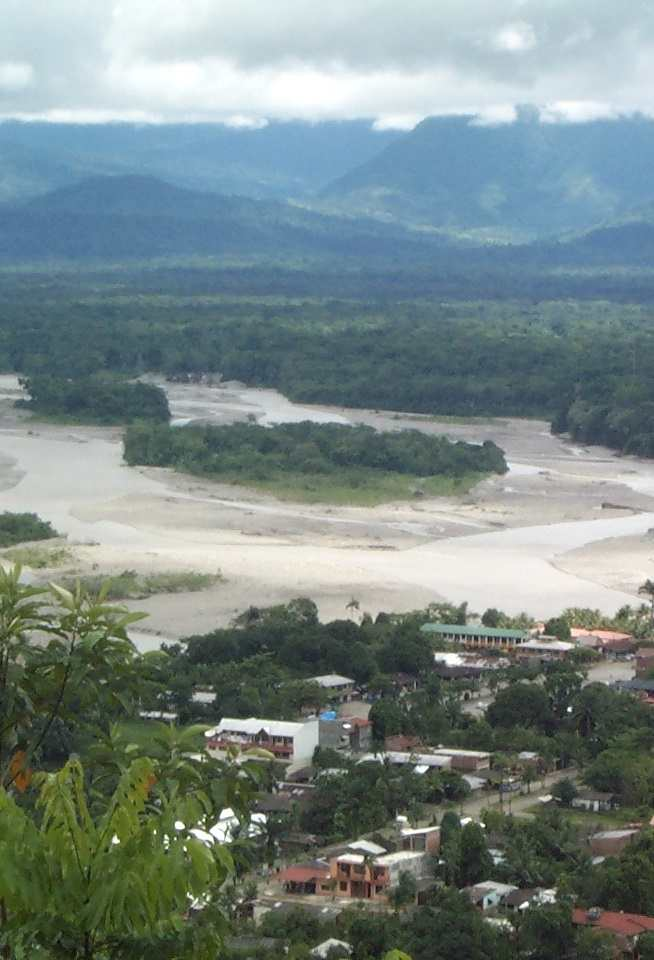
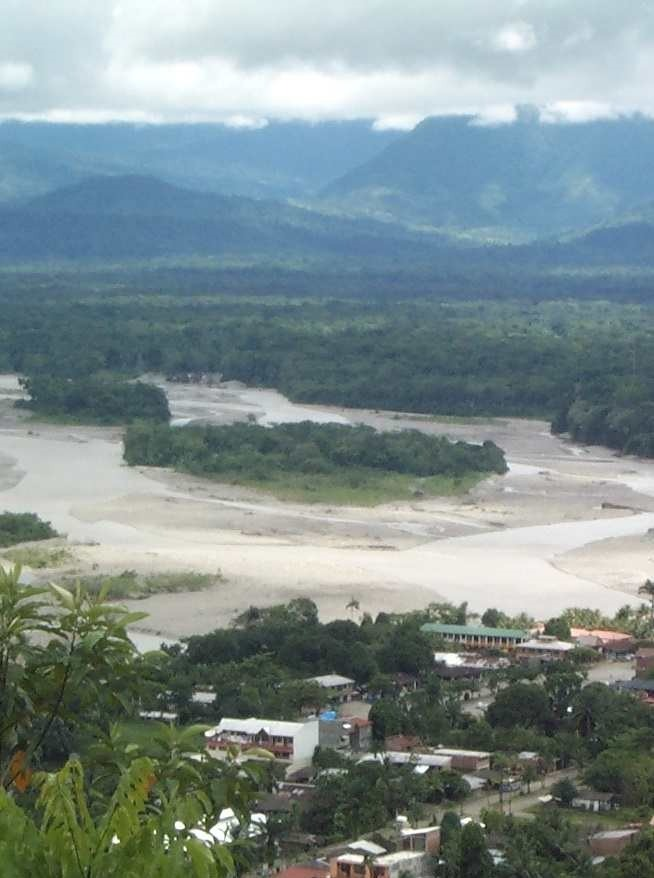
fgh

diff --git a/wwr/stylesrafting.css b/wwr/stylesrafting.css
@@ -148,7 +148,7 @@ figure{
     width: 20%;
 }
 .figures figure img {
-    width: 100%;
+    width: 90%;
 }
 figcaption{
     width: 100%;
